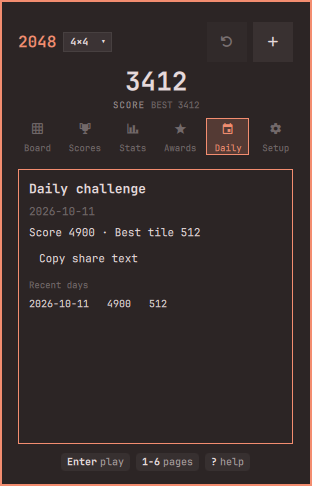
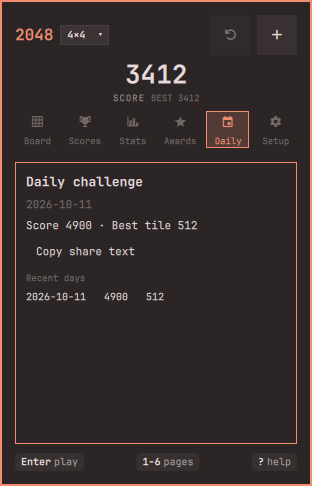
fix: use one outer padding and align the panel columns to the same edges

diff --git a/Panel.qml b/Panel.qml
@@ -1134,8 +1134,6 @@ Panel {
         scale: root.uiScale * (0.97 + 0.03 * root.entranceT)
         transformOrigin: Item.Top
 
-        // Top margin so the gain label has room above the header.
-        Item { width: 1; height: Style.space(8) }
 
         // 1. Header: the live score is the hero; the size chip opens the inline
         //    picker and the action group (undo / new game) sits on the right.
@@ -1585,7 +1583,7 @@ Panel {
         Item {
           id: boardFrame
           anchors.horizontalCenter: parent.horizontalCenter
-          width: Math.min(parent.width, Style.space(300))
+          width: parent.width
           height: width
 
           // Invalid-move shake writes here (a Translate keeps the anchors intact).
@@ -3155,11 +3153,28 @@ Panel {
 
         Item { width: 1; height: Style.space(10) }
 
-        // 5. Footer: centred key chips.
+        // 5. Footer: key chips spread across the same width as the board.
         Row {
           id: footerChips
+          width: boardFrame.width
           anchors.horizontalCenter: parent.horizontalCenter
-          spacing: Style.space(6)
+          readonly property int chipCount: {
+            var n = 0
+            for (var i = 0; i < children.length; i++)
+              if (children[i].modelData !== undefined) n++
+            return n
+          }
+          readonly property real contentSum: {
+            var sum = 0
+            for (var i = 0; i < children.length; i++) {
+              var w = children[i].width
+              if (children[i].modelData !== undefined && isFinite(w)) sum += w
+            }
+            return sum
+          }
+          spacing: chipCount > 1
+            ? Math.max(Style.space(6), (width - contentSum) / (chipCount - 1))
+            : 0
 
           Repeater {
             model: root.footerChips()
